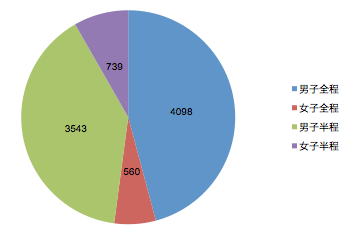
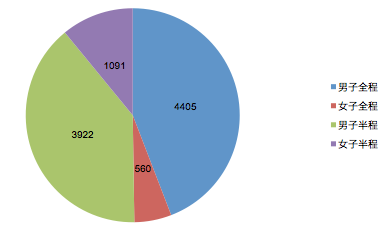
Site updated at 2014-11-26 18:09:58 UTC

diff --git a/index.html b/index.html
@@ -9,7 +9,7 @@
   <meta name="author" content="Leo Liang">
 
   
-  <meta name="description" content="2014广州马拉松在网上可以根据号码查询成绩和名次了，但是没有开放完整成绩册的数据下载。出于好奇，想知道成绩的分布：跑330以内的有多少人？400呢？有多少人最后关门一刻才冲线的？于是写了个程序把数据抓下来分析。 数据不包含号码以0开头的专业选手（大概几十人）。由于不知道确切号码段， &hellip;">
+  <meta name="description" content="Updated 2014-11-27: 之前漏了一些号码段，重新补上更新了。 2014广州马拉松在网上可以根据号码查询成绩和名次了，但是没有开放完整成绩册的数据下载。出于好奇，想知道成绩的分布：跑330以内的有多少人？400呢？有多少人最后关门一刻才冲线的？于是写了个程序把数据抓下来分析。 &hellip;">
   
 
   <!-- http://t.co/dKP3o1e -->
@@ -111,13 +111,15 @@
   </header>
 
 
-  <div class="entry-content"><p>2014广州马拉松在网上可以根据号码查询成绩和名次了，但是没有开放完整成绩册的数据下载。出于好奇，想知道成绩的分布：跑330以内的有多少人？400呢？有多少人最后关门一刻才冲线的？于是写了个程序把数据抓下来分析。</p>
+  <div class="entry-content"><p><em>Updated 2014-11-27: 之前漏了一些号码段，重新补上更新了。</em></p>
+
+<p>2014广州马拉松在网上可以根据号码查询成绩和名次了，但是没有开放完整成绩册的数据下载。出于好奇，想知道成绩的分布：跑330以内的有多少人？400呢？有多少人最后关门一刻才冲线的？于是写了个程序把数据抓下来分析。</p>
 
 <p><img class="right" src="/blog/attachments/2014/11/groups.png" /></p>
 
-<p>数据不包含号码以0开头的专业选手（大概几十人）。由于不知道确切号码段，没完赛选手的数据有可能会漏了。</p>
+<p>数据不包含号码以0开头的专业选手（大概几十人）。由于不知道确切号码段，没完赛选手的数据有可能有误。</p>
 
-<p>首先是各组的人数，半程全程都不足5000人，男女比例全马约7:1，半马约5:1，跑步的妹子相对还是比较少。女子只要完赛了，总能够拿到个几百名的名次的 :)</p>
+<p>首先是各组的人数，男女比例全马约8:1，半马约3.6:1。跑步的妹子相对还是比较少，女子只要完赛了，总能够拿到个几百名的名次的 :)</p>
 
 <p>然后看成绩分布。</p>
 
@@ -147,11 +149,11 @@
   <tbody>
     <tr>
       <td style="text-align: right">3:30</td>
-      <td style="text-align: right">3.9%</td>
+      <td style="text-align: right">4.0%</td>
     </tr>
     <tr>
       <td style="text-align: right">4:00</td>
-      <td style="text-align: right">15.5%</td>
+      <td style="text-align: right">15.6%</td>
     </tr>
     <tr>
       <td style="text-align: right">4:30</td>
@@ -159,15 +161,15 @@
     </tr>
     <tr>
       <td style="text-align: right">5:00</td>
-      <td style="text-align: right">52.1%</td>
+      <td style="text-align: right">52.0%</td>
     </tr>
     <tr>
       <td style="text-align: right">5:30</td>
-      <td style="text-align: right">67.3%</td>
+      <td style="text-align: right">67.2%</td>
     </tr>
     <tr>
       <td style="text-align: right">6:00</td>
-      <td style="text-align: right">85.7%</td>
+      <td style="text-align: right">85.5%</td>
     </tr>
   </tbody>
 </table>

diff --git a/2014/11/26/2014-guangzhou-marathon-analysis/index.html b/2014/11/26/2014-guangzhou-marathon-analysis/index.html
@@ -9,7 +9,7 @@
   <meta name="author" content="Leo Liang">
 
   
-  <meta name="description" content="2014广州马拉松在网上可以根据号码查询成绩和名次了，但是没有开放完整成绩册的数据下载。出于好奇，想知道成绩的分布：跑330以内的有多少人？400呢？有多少人最后关门一刻才冲线的？于是写了个程序把数据抓下来分析。 数据不包含号码以0开头的专业选手（大概几十人）。由于不知道确切号码段， &hellip;">
+  <meta name="description" content="Updated 2014-11-27: 之前漏了一些号码段，重新补上更新了。 2014广州马拉松在网上可以根据号码查询成绩和名次了，但是没有开放完整成绩册的数据下载。出于好奇，想知道成绩的分布：跑330以内的有多少人？400呢？有多少人最后关门一刻才冲线的？于是写了个程序把数据抓下来分析。 &hellip;">
   
 
   <!-- http://t.co/dKP3o1e -->
@@ -108,13 +108,15 @@
   </header>
 
 
-<div class="entry-content"><p>2014广州马拉松在网上可以根据号码查询成绩和名次了，但是没有开放完整成绩册的数据下载。出于好奇，想知道成绩的分布：跑330以内的有多少人？400呢？有多少人最后关门一刻才冲线的？于是写了个程序把数据抓下来分析。</p>
+<div class="entry-content"><p><em>Updated 2014-11-27: 之前漏了一些号码段，重新补上更新了。</em></p>
+
+<p>2014广州马拉松在网上可以根据号码查询成绩和名次了，但是没有开放完整成绩册的数据下载。出于好奇，想知道成绩的分布：跑330以内的有多少人？400呢？有多少人最后关门一刻才冲线的？于是写了个程序把数据抓下来分析。</p>
 
 <p><img class="right" src="/blog/attachments/2014/11/groups.png" /></p>
 
-<p>数据不包含号码以0开头的专业选手（大概几十人）。由于不知道确切号码段，没完赛选手的数据有可能会漏了。</p>
+<p>数据不包含号码以0开头的专业选手（大概几十人）。由于不知道确切号码段，没完赛选手的数据有可能有误。</p>
 
-<p>首先是各组的人数，半程全程都不足5000人，男女比例全马约7:1，半马约5:1，跑步的妹子相对还是比较少。女子只要完赛了，总能够拿到个几百名的名次的 :)</p>
+<p>首先是各组的人数，男女比例全马约8:1，半马约3.6:1。跑步的妹子相对还是比较少，女子只要完赛了，总能够拿到个几百名的名次的 :)</p>
 
 <p>然后看成绩分布。</p>
 
@@ -144,11 +146,11 @@
   <tbody>
     <tr>
       <td style="text-align: right">3:30</td>
-      <td style="text-align: right">3.9%</td>
+      <td style="text-align: right">4.0%</td>
     </tr>
     <tr>
       <td style="text-align: right">4:00</td>
-      <td style="text-align: right">15.5%</td>
+      <td style="text-align: right">15.6%</td>
     </tr>
     <tr>
       <td style="text-align: right">4:30</td>
@@ -156,15 +158,15 @@
     </tr>
     <tr>
       <td style="text-align: right">5:00</td>
-      <td style="text-align: right">52.1%</td>
+      <td style="text-align: right">52.0%</td>
     </tr>
     <tr>
       <td style="text-align: right">5:30</td>
-      <td style="text-align: right">67.3%</td>
+      <td style="text-align: right">67.2%</td>
     </tr>
     <tr>
       <td style="text-align: right">6:00</td>
-      <td style="text-align: right">85.7%</td>
+      <td style="text-align: right">85.5%</td>
     </tr>
   </tbody>
 </table>
